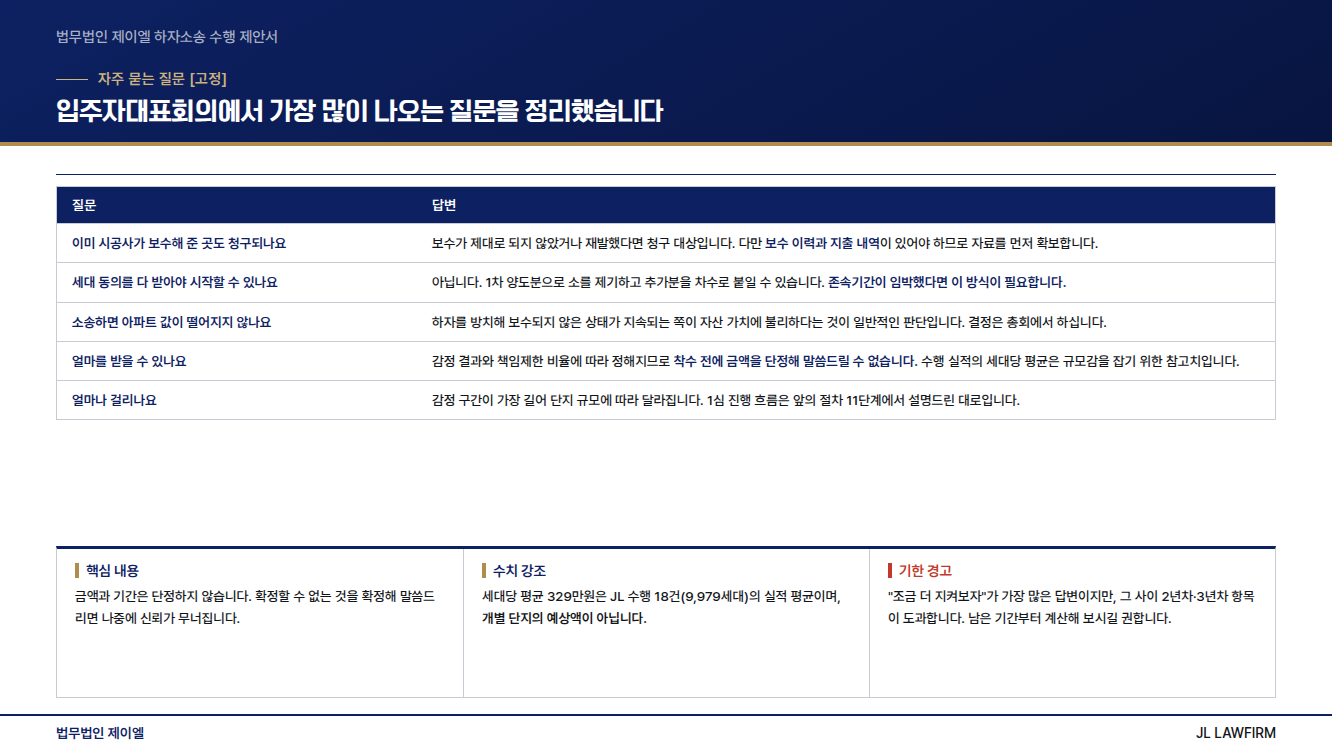
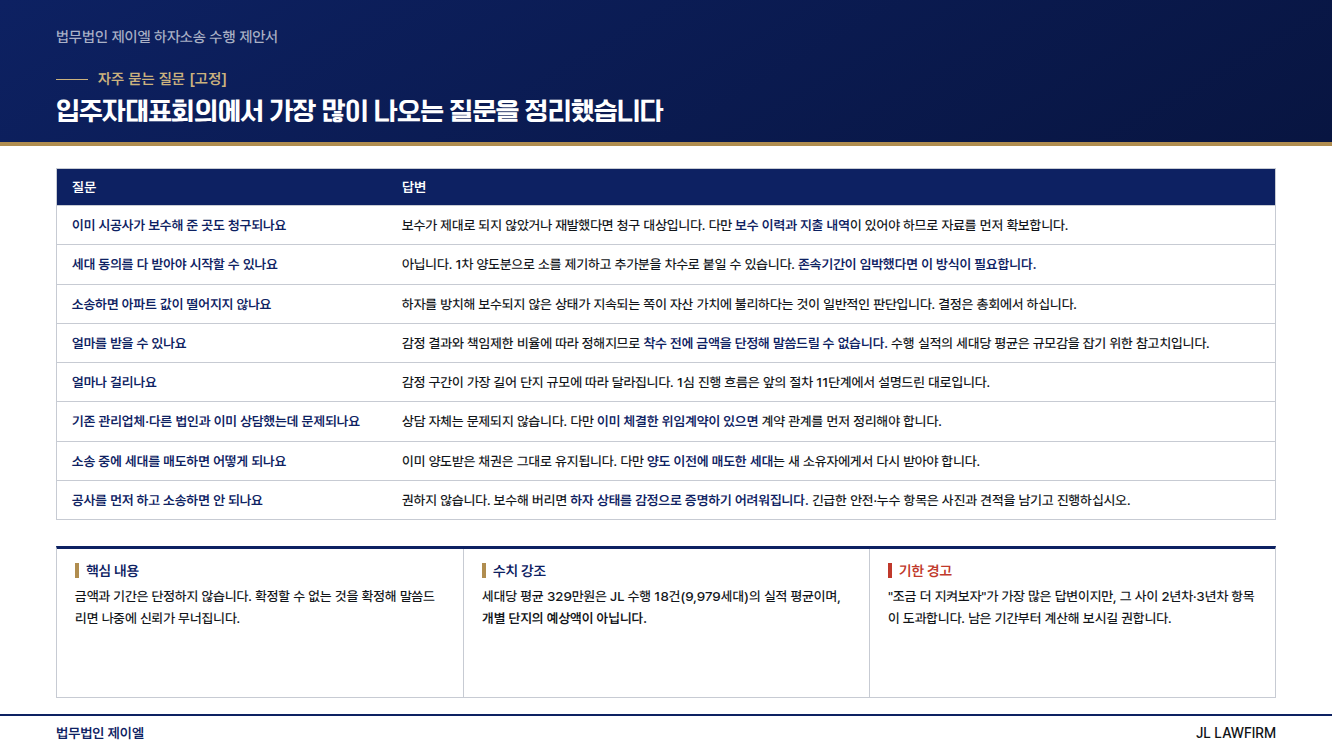
여백 정리 — 공백 120px 이상 0장 달성
- S21 연락 체계 도해(단지 <-> 담당 변호사 <-> 사무직원 <-> 협력 기술진)
- S20 감정보완신청 사유 4종(항목 누락·계측 방법·단가 적용·수량 산출)
- S06·S24·S26·S20 3단 밴드 추가
- S30b FAQ 5문항 -> 8문항
- S32 끝인사 조판 수정(제목 2행, 세 가지 축 에코 밴드)

Claude-Session: https://claude.ai/code/session_01McKVzc7RRv66NSkAtofwT1

Changed region(s): [[0.0308, 0.2147, 0.9542, 0.6747]]

diff --git a/template/design/S30b_FAQ2.dc.html b/template/design/S30b_FAQ2.dc.html
@@ -91,7 +91,7 @@
   <div class="runner"><span>법무법인 제이엘 하자소송 수행 제안서</span></div>
   <div class="eyebrow">자주 묻는 질문 [고정]</div>
   <div class="title">입주자대표회의에서 가장 많이 나오는 질문을 정리했습니다</div>
-  <div class="body"><div class="sec"></div><div class="tbl blk" style=""><div class="th"><div style="width:360px">질문</div><div style="flex:1">답변</div></div><div class="tr"><div style="width:360px"><b>이미 시공사가 보수해 준 곳도 청구되나요</b></div><div style="flex:1">보수가 제대로 되지 않았거나 재발했다면 청구 대상입니다. 다만 <b>보수 이력과 지출 내역</b>이 있어야 하므로 자료를 먼저 확보합니다.</div></div><div class="tr"><div style="width:360px"><b>세대 동의를 다 받아야 시작할 수 있나요</b></div><div style="flex:1">아닙니다. 1차 양도분으로 소를 제기하고 추가분을 차수로 붙일 수 있습니다. <b>존속기간이 임박했다면 이 방식이 필요합니다.</b></div></div><div class="tr"><div style="width:360px"><b>소송하면 아파트 값이 떨어지지 않나요</b></div><div style="flex:1">하자를 방치해 보수되지 않은 상태가 지속되는 쪽이 자산 가치에 불리하다는 것이 일반적인 판단입니다. 결정은 총회에서 하십니다.</div></div><div class="tr"><div style="width:360px"><b>얼마를 받을 수 있나요</b></div><div style="flex:1">감정 결과와 책임제한 비율에 따라 정해지므로 <b>착수 전에 금액을 단정해 말씀드릴 수 없습니다.</b> 수행 실적의 세대당 평균은 규모감을 잡기 위한 참고치입니다.</div></div><div class="tr"><div style="width:360px"><b>얼마나 걸리나요</b></div><div style="flex:1">감정 구간이 가장 길어 단지 규모에 따라 달라집니다. 1심 진행 흐름은 앞의 절차 11단계에서 설명드린 대로입니다.</div></div></div></div>
+  <div class="body"><div class="tbl blk" style=""><div class="th"><div style="width:330px">질문</div><div style="flex:1">답변</div></div><div class="tr"><div style="width:330px"><b>이미 시공사가 보수해 준 곳도 청구되나요</b></div><div style="flex:1">보수가 제대로 되지 않았거나 재발했다면 청구 대상입니다. 다만 <b>보수 이력과 지출 내역</b>이 있어야 하므로 자료를 먼저 확보합니다.</div></div><div class="tr"><div style="width:330px"><b>세대 동의를 다 받아야 시작할 수 있나요</b></div><div style="flex:1">아닙니다. 1차 양도분으로 소를 제기하고 추가분을 차수로 붙일 수 있습니다. <b>존속기간이 임박했다면 이 방식이 필요합니다.</b></div></div><div class="tr"><div style="width:330px"><b>소송하면 아파트 값이 떨어지지 않나요</b></div><div style="flex:1">하자를 방치해 보수되지 않은 상태가 지속되는 쪽이 자산 가치에 불리하다는 것이 일반적인 판단입니다. 결정은 총회에서 하십니다.</div></div><div class="tr"><div style="width:330px"><b>얼마를 받을 수 있나요</b></div><div style="flex:1">감정 결과와 책임제한 비율에 따라 정해지므로 <b>착수 전에 금액을 단정해 말씀드릴 수 없습니다.</b> 수행 실적의 세대당 평균은 규모감을 잡기 위한 참고치입니다.</div></div><div class="tr"><div style="width:330px"><b>얼마나 걸리나요</b></div><div style="flex:1">감정 구간이 가장 길어 단지 규모에 따라 달라집니다. 1심 진행 흐름은 앞의 절차 11단계에서 설명드린 대로입니다.</div></div><div class="tr"><div style="width:330px"><b>기존 관리업체·다른 법인과 이미 상담했는데 문제되나요</b></div><div style="flex:1">상담 자체는 문제되지 않습니다. 다만 <b>이미 체결한 위임계약이 있으면</b> 계약 관계를 먼저 정리해야 합니다.</div></div><div class="tr"><div style="width:330px"><b>소송 중에 세대를 매도하면 어떻게 되나요</b></div><div style="flex:1">이미 양도받은 채권은 그대로 유지됩니다. 다만 <b>양도 이전에 매도한 세대</b>는 새 소유자에게서 다시 받아야 합니다.</div></div><div class="tr"><div style="width:330px"><b>공사를 먼저 하고 소송하면 안 되나요</b></div><div style="flex:1">권하지 않습니다. 보수해 버리면 <b>하자 상태를 감정으로 증명하기 어려워집니다.</b> 긴급한 안전·누수 항목은 사진과 견적을 남기고 진행하십시오.</div></div></div></div>
   <div class="verify"><div><div class="vk">핵심 내용</div><div class="vv">금액과 기간은 단정하지 않습니다. 확정할 수 없는 것을 확정해 말씀드리면 나중에 신뢰가 무너집니다.</div></div><div><div class="vk">수치 강조</div><div class="vv">세대당 평균 329만원은 JL 수행 18건(9,979세대)의 실적 평균이며, <b>개별 단지의 예상액이 아닙니다.</b></div></div><div><div class="vk warnk">기한 경고</div><div class="vv">"조금 더 지켜보자"가 가장 많은 답변이지만, 그 사이 2년차·3년차 항목이 도과합니다. 남은 기간부터 계산해 보시길 권합니다.</div></div></div>
   <div class="footer"><span class="firm">법무법인 제이엘</span><span>JL LAWFIRM</span></div>
 </body>

diff --git a/template/design/S20_AppraisalResponse.dc.html b/template/design/S20_AppraisalResponse.dc.html
@@ -37,11 +37,11 @@
   .step .b{margin-top:6px;font-size:14px;color:var(--muted);line-height:1.6;}
   .step::after{content:"";position:absolute;top:13px;left:calc(100% - 4px);width:32px;height:1px;background:var(--line);}
   .step:last-child::after{display:none;}
-  .pending{position:absolute;left:56px;top:400px;right:56px;background:#FBF7EE;border:1px solid #E7D9BC;
+  .pending{position:absolute;left:56px;top:434px;right:56px;background:#FBF7EE;border:1px solid #E7D9BC;
     border-radius:0;padding:16px 22px;}
   .pending .k{font-size:15px;color:var(--gold-ink);font-weight:700;}
   .pending .v{margin-top:6px;font-size:15px;color:var(--muted);line-height:1.7;}
-  .why{position:absolute;left:56px;top:500px;right:56px;bottom:56px;}
+  .why{position:absolute;left:56px;top:486px;right:56px;bottom:224px;}
   .why .h{font-size:16px;font-weight:800;color:var(--navy);margin-bottom:10px;}
   .why p{font-size:15px;color:var(--muted);line-height:1.8;}
 
@@ -72,6 +72,29 @@
   .sum *,.panel *,.band *,.record *,.total *{background:transparent!important;}
 
   /* 한글 자간 */ .eyebrow{letter-spacing:.02em!important;}
+
+  /* ── 심층 검증 3단 밴드 ── */
+  .verify{position:absolute;left:56px;right:56px;bottom:52px;height:152px;
+    display:grid;grid-template-columns:1fr 1fr 1fr;
+    border:1.4px solid var(--line);border-top:3px solid var(--navy);background:#fff;}
+  .verify>div{padding:13px 18px 12px;border-left:1px solid var(--line);}
+  .verify>div:first-child{border-left:0;}
+  .verify .vk{font-size:14.5px;font-weight:800;color:var(--navy);margin-bottom:7px;
+    display:flex;align-items:center;gap:7px;letter-spacing:-.01em;}
+  .verify .vk::before{content:"";width:4px;height:15px;background:var(--gold);}
+  .verify .vv{font-size:13.5px;line-height:1.6;color:var(--ink);}
+  .verify .warnk{color:#C0392B;}
+  .verify .warnk::before{background:#C0392B!important;}
+  .verify *{background:transparent!important;}
+
+  /* ── 감정보완신청 사유 4종 (여백 채움) ── */
+  .rsn{position:absolute;left:56px;top:296px;right:56px;}
+  .rsn .h{font-size:13px;font-weight:800;color:var(--gold-ink);letter-spacing:.02em;
+    padding-bottom:6px;border-bottom:1.6px solid var(--navy);margin-bottom:11px;}
+  .rsn .g{display:grid;grid-template-columns:repeat(4,1fr);gap:14px;}
+  .rsn .i{border:1px solid var(--line);border-top:3px solid var(--navy);background:#fff;padding:12px 15px 13px;}
+  .rsn .i .k{font-size:14.5px;font-weight:800;color:var(--navy);letter-spacing:-.01em;}
+  .rsn .i .v{margin-top:6px;font-size:12.5px;line-height:1.55;color:var(--ink);}
 </style>
 </head>
 <body>
@@ -88,11 +111,21 @@
     <div class="step"><div class="num">4</div><div class="t">사후 이의</div>
       <div class="b">감정보완신청으로 오류·누락 대응</div></div>
   </div>
+  <div class="rsn">
+    <div class="h">감정서가 도착하면 이 네 가지를 먼저 봅니다 — 감정보완신청 사유</div>
+    <div class="g">
+      <div class="i"><div class="k">항목 누락</div><div class="v">신청한 하자 항목이 감정서에서 빠졌거나 판단이 없는 경우</div></div>
+      <div class="i"><div class="k">계측 방법 오류</div><div class="v">기준과 다른 방법으로 측정했거나 표본 수가 부족한 경우</div></div>
+      <div class="i"><div class="k">단가 적용 오류</div><div class="v">공법에 맞지 않는 단가나 시점이 다른 단가를 적용한 경우</div></div>
+      <div class="i"><div class="k">수량 산출 오류</div><div class="v">면적·연장·세대수 산출이 도면·명단과 맞지 않는 경우</div></div>
+    </div>
+  </div>
   <div class="pending"><div class="k">JL 자체 협력 진단업체</div>
     <div class="v">협력 진단업체 확인 후 업체명을 수록합니다 [확인 대기] · 확인 전까지는 협력 기술진 투입 체계로만 기술합니다.</div></div>
-  <div class="why">
-    <div class="h">왜 중요한가</div>
-    <p>건설소송은 감정 결과가 곧 청구액을 좌우합니다. 감정인 현장조사에 입회해 계측 기준 적용을 직접 확인하고, 오류나 누락이 있으면 감정보완신청으로 대응합니다.</p>
+  <div class="verify">
+    <div><div class="vk">핵심 내용</div><div class="vv">건설소송은 감정 결과가 곧 청구액입니다. 감정인 현장조사에 입회해 계측 기준 적용을 직접 확인하고, 협력 기술진이 같은 자리에서 검토합니다.</div></div>
+    <div><div class="vk">수치 강조</div><div class="vv">감정보완신청 사유는 위 네 가지가 대부분입니다. 어느 하나만 관철되어도 인정 금액이 달라집니다.</div></div>
+    <div><div class="vk warnk">기한 경고</div><div class="vv">감정서가 나온 뒤 보완신청 없이 변론이 종결되면 그대로 확정됩니다. 도착 즉시 검토해야 합니다.</div></div>
   </div>
   <div class="footer"><span class="firm">법무법인 제이엘</span><span>JL LAWFIRM</span></div>
 </body>

diff --git a/template/design/S06_DefectStats.dc.html b/template/design/S06_DefectStats.dc.html
@@ -27,7 +27,7 @@
     font-size:14px;color:var(--muted);}
   .footer .firm{color:var(--navy);font-weight:700;}
 
-  .cols{position:absolute;left:56px;top:180px;right:56px;bottom:110px;display:flex;gap:40px;}
+  .cols{position:absolute;left:56px;top:180px;right:56px;bottom:224px;display:flex;gap:40px;}
   .colL{flex:1.3;} .colR{flex:1;}
   .h{font-size:16px;font-weight:800;color:var(--navy);margin-bottom:14px;}
   .bar-row{margin-bottom:16px;}
@@ -38,7 +38,7 @@
   .heat{display:grid;grid-template-columns:repeat(5,1fr);gap:6px;}
   .hcell{aspect-ratio:1;border-radius:0;display:flex;align-items:center;justify-content:center;
     font-size:14px;color:#fff;font-weight:700;}
-  .foot-note{position:absolute;left:56px;bottom:56px;right:56px;}
+  .foot-note{position:absolute;left:56px;bottom:216px;right:56px;}
 
   /* ── 법무법인 제안서 헤더 밴드 ── */
   body::before{content:"";position:absolute;left:0;top:0;right:0;height:142px;
@@ -67,6 +67,20 @@
   .sum *,.panel *,.band *,.record *,.total *{background:transparent!important;}
 
   /* 한글 자간 */ .eyebrow{letter-spacing:.02em!important;}
+
+  /* ── 심층 검증 3단 밴드 ── */
+  .verify{position:absolute;left:56px;right:56px;bottom:52px;height:152px;
+    display:grid;grid-template-columns:1fr 1fr 1fr;
+    border:1.4px solid var(--line);border-top:3px solid var(--navy);background:#fff;}
+  .verify>div{padding:13px 18px 12px;border-left:1px solid var(--line);}
+  .verify>div:first-child{border-left:0;}
+  .verify .vk{font-size:14.5px;font-weight:800;color:var(--navy);margin-bottom:7px;
+    display:flex;align-items:center;gap:7px;letter-spacing:-.01em;}
+  .verify .vk::before{content:"";width:4px;height:15px;background:var(--gold);}
+  .verify .vv{font-size:13.5px;line-height:1.6;color:var(--ink);}
+  .verify .warnk{color:#C0392B;}
+  .verify .warnk::before{background:#C0392B!important;}
+  .verify *{background:transparent!important;}
 </style>
 </head>
 <body>
@@ -102,6 +116,11 @@
       </div></div>
   </div>
   <div class="foot-note"><div class="note">이 슬라이드는 관리사무소가 보유한 <b>세대 하자 접수대장</b>이 있을 때만 채워집니다. 위 막대 길이와 색상은 레이아웃 예시이며 실제 값이 아닙니다. 자료가 없으면 이 슬라이드는 삭제하고 진행합니다.</div></div>
+  <div class="verify">
+    <div><div class="vk">핵심 내용</div><div class="vv">접수 기록은 그 자체로 증거입니다. 같은 부위에 반복 접수된 이력은 일시적 현상이 아니라 시공에서 비롯된 하자라는 근거가 됩니다.</div></div>
+    <div><div class="vk">수치 강조</div><div class="vv">건수보다 <b>반복 접수와 최초 접수일</b>이 중요합니다. 최초 접수일이 사용검사 이후 발생 하자의 발생 시점을 특정합니다.</div></div>
+    <div><div class="vk warnk">기한 경고</div><div class="vv">관리사무소 자료는 보존 연한이 지나면 폐기됩니다. 오래된 접수대장과 공문부터 사본을 확보해야 합니다.</div></div>
+  </div>
   <div class="footer"><span class="firm">법무법인 제이엘</span><span>JL LAWFIRM</span></div>
 </body>
 </html>

diff --git a/template/design/S26_FirmOverview.dc.html b/template/design/S26_FirmOverview.dc.html
@@ -40,11 +40,11 @@
   .g .k{font-size:14px;color:var(--gold-ink);font-weight:700;}
   .g .v{margin-top:7px;font-size:16px;font-weight:800;color:var(--navy);}
   .g .d{margin-top:7px;font-size:14px;color:var(--muted);line-height:1.6;}
-  .why{position:absolute;left:56px;top:430px;right:56px;display:flex;gap:20px;}
+  .why{position:absolute;left:56px;top:424px;right:56px;display:flex;gap:20px;}
   .w{flex:1;border-left:3px solid var(--gold);padding-left:14px;}
   .w .t{font-size:15px;font-weight:800;color:var(--navy);}
   .w .d{margin-top:5px;font-size:14px;color:var(--muted);line-height:1.7;}
-  .addr{position:absolute;left:56px;bottom:50px;right:56px;background:#fff;flex-wrap:wrap;gap:6px 26px;
+  .addr{position:absolute;left:56px;bottom:216px;right:56px;background:#fff;flex-wrap:wrap;gap:6px 26px;
     border:1px solid var(--line);border-radius:0;padding:12px 20px;display:flex;
     justify-content:space-between;font-size:15px;color:var(--muted);}
   .addr b{color:var(--navy);}
@@ -76,6 +76,20 @@
   .sum *,.panel *,.band *,.record *,.total *{background:transparent!important;}
 
   /* 한글 자간 */ .eyebrow{letter-spacing:.02em!important;}
+
+  /* ── 심층 검증 3단 밴드 ── */
+  .verify{position:absolute;left:56px;right:56px;bottom:52px;height:152px;
+    display:grid;grid-template-columns:1fr 1fr 1fr;
+    border:1.4px solid var(--line);border-top:3px solid var(--navy);background:#fff;}
+  .verify>div{padding:13px 18px 12px;border-left:1px solid var(--line);}
+  .verify>div:first-child{border-left:0;}
+  .verify .vk{font-size:14.5px;font-weight:800;color:var(--navy);margin-bottom:7px;
+    display:flex;align-items:center;gap:7px;letter-spacing:-.01em;}
+  .verify .vk::before{content:"";width:4px;height:15px;background:var(--gold);}
+  .verify .vv{font-size:13.5px;line-height:1.6;color:var(--ink);}
+  .verify .warnk{color:#C0392B;}
+  .verify .warnk::before{background:#C0392B!important;}
+  .verify *{background:transparent!important;}
 </style>
 </head>
 <body>
@@ -117,6 +131,11 @@
     <span><b>주사무소(서초)</b> 서울 서초구 서초대로53길 15 정원빌딩 4층 · 02-537-0123</span>
     <span><b>분사무소(동탄)</b> 경기 화성시 동탄순환대로 127-5 우성센트럴타워 914호 · 1899-4252</span>
     <span>www.jllawfirm.co.kr</span></div>
+  <div class="verify">
+    <div><div class="vk">핵심 내용</div><div class="vv">하자소송은 서면만으로 되지 않습니다. 세대 단위 서류 처리량과 현장 대응이 결과를 좌우합니다.</div></div>
+    <div><div class="vk">수치 강조</div><div class="vv">변호사 7인 · 사무직원 36명 구성이며, 사무장은 <b>건축시공기술사</b>입니다. 도면을 읽는 인력이 법인 안에 있습니다.</div></div>
+    <div><div class="vk warnk">기한 경고</div><div class="vv">설명회·서류 징구는 단지 일정에 맞춰야 합니다. 총회 일정이 정해지면 미리 알려 주십시오.</div></div>
+  </div>
   <div class="footer"><span class="firm">법무법인 제이엘</span><span>JL LAWFIRM</span></div>
 </body>
 </html>

diff --git a/template/design/S21_ReportingSystem.dc.html b/template/design/S21_ReportingSystem.dc.html
@@ -74,6 +74,23 @@
   .sum *,.panel *,.band *,.record *,.total *{background:transparent!important;}
 
   /* 한글 자간 */ .eyebrow{letter-spacing:.02em!important;}
+
+  /* ── 연락 체계 도해 (하단 여백 채움) ── */
+  .chan{position:absolute;left:56px;right:56px;top:470px;height:158px;}
+  .chan .h{font-size:13px;font-weight:800;color:var(--gold-ink);letter-spacing:.02em;
+    padding-bottom:6px;border-bottom:1.6px solid var(--navy);margin-bottom:12px;}
+  .chan .row{display:flex;align-items:stretch;gap:0;}
+  .chan .n{flex:1;border:1px solid var(--line);background:#fff;padding:11px 15px 12px;}
+  .chan .n.hi{background:var(--navy);border-color:var(--navy);}
+  .chan .n .k{font-size:11.5px;font-weight:800;letter-spacing:.1em;color:var(--gold-ink);}
+  .chan .n.hi .k{color:#CBB27E;}
+  .chan .n .t{margin-top:6px;font-size:15px;font-weight:800;color:var(--ink);letter-spacing:-.01em;}
+  .chan .n.hi .t{color:#fff;}
+  .chan .n .d{margin-top:5px;font-size:12px;line-height:1.5;color:var(--ink);}
+  .chan .n.hi .d{color:rgba(255,255,255,.80);}
+  .chan .ar{flex:0 0 44px;display:flex;align-items:center;justify-content:center;
+    font-size:15px;color:var(--navy);font-weight:700;}
+  .chan .n.hi *{background:transparent;}
 </style>
 </head>
 <body>
@@ -101,6 +118,22 @@
     </div>
   </div>
 
+  <div class="chan">
+    <div class="h">연락은 이 경로로 오갑니다 — 여러 사람에게 나뉘어 물어보지 않으셔도 됩니다</div>
+    <div class="row">
+      <div class="n"><div class="k">단지</div><div class="t">입주자대표회의 · 관리사무소</div>
+        <div class="d">질의·자료 제출·의결 결과 전달</div></div>
+      <div class="ar">&#8644;</div>
+      <div class="n hi"><div class="k">단일 창구</div><div class="t">담당 변호사</div>
+        <div class="d">모든 질의가 여기로 모이고, 여기서 답이 나갑니다</div></div>
+      <div class="ar">&#8594;</div>
+      <div class="n"><div class="k">법인 내부</div><div class="t">담당 사무직원</div>
+        <div class="d">채권양도 서류 징구·검수, 세대 명단 관리</div></div>
+      <div class="ar">&#8594;</div>
+      <div class="n"><div class="k">협력</div><div class="t">협력 기술진</div>
+        <div class="d">현장조사 입회, 도면 대조, 감정 항목 검토</div></div>
+    </div>
+  </div>
   <div class="foot-note"><div class="note">감정 절차는 진행이 길어 입주자대표회의가 가장 답답해하는 구간입니다. 움직임이 없는 달에도 <b>현재 어느 단계이고 다음이 언제인지</b>를 보고합니다.</div></div>
   <div class="footer"><span class="firm">법무법인 제이엘</span><span>JL LAWFIRM</span></div>
 </body>

diff --git a/template/design/S24_CostStructure.dc.html b/template/design/S24_CostStructure.dc.html
@@ -28,7 +28,7 @@
   .footer .firm{color:var(--navy);font-weight:700;}
 
   .title{font-size:24px;}
-  .cols{position:absolute;left:56px;top:168px;right:56px;display:block;}
+  .cols{position:absolute;left:56px;top:168px;right:56px;bottom:224px;display:block;overflow:hidden;}
   .colL{width:1220px;height:610px;display:none;}
   .chartbox{width:760px;height:380px;border:1px solid var(--line);overflow:hidden;
     background:#fff;float:left;}
@@ -68,6 +68,20 @@
   .sum *,.panel *,.band *,.record *,.total *{background:transparent!important;}
 
   /* 한글 자간 */ .eyebrow{letter-spacing:.02em!important;}
+
+  /* ── 심층 검증 3단 밴드 ── */
+  .verify{position:absolute;left:56px;right:56px;bottom:52px;height:152px;
+    display:grid;grid-template-columns:1fr 1fr 1fr;
+    border:1.4px solid var(--line);border-top:3px solid var(--navy);background:#fff;}
+  .verify>div{padding:13px 18px 12px;border-left:1px solid var(--line);}
+  .verify>div:first-child{border-left:0;}
+  .verify .vk{font-size:14.5px;font-weight:800;color:var(--navy);margin-bottom:7px;
+    display:flex;align-items:center;gap:7px;letter-spacing:-.01em;}
+  .verify .vk::before{content:"";width:4px;height:15px;background:var(--gold);}
+  .verify .vv{font-size:13.5px;line-height:1.6;color:var(--ink);}
+  .verify .warnk{color:#C0392B;}
+  .verify .warnk::before{background:#C0392B!important;}
+  .verify *{background:transparent!important;}
 </style>
 </head>
 <body>
@@ -82,6 +96,11 @@
         <div class="l">개별 단지의 실제 감정료는 감정 항목·규모에 따라 달라집니다.</div></div>
       <div class="recover" style="flex:1">판결 확정 시 소송비용 중 일부는 패소자(시공사 등)로부터 회수될 수 있습니다. 다만 회수 여부와 범위는 법원 판단에 따라 달라지며, 이를 단정적으로 예측하지 않습니다.</div>
     </div>
+  </div>
+  <div class="verify">
+    <div><div class="vk">핵심 내용</div><div class="vv">비용 구조를 먼저 밝히는 이유는, 진행 중에 예상하지 못한 지출이 생기면 그때부터 신뢰가 무너지기 때문입니다.</div></div>
+    <div><div class="vk">수치 강조</div><div class="vv">금액이 가장 큰 항목은 <b>감정료</b>이며, 단지 세대수와 조사 항목 수에 따라 법원이 정합니다.</div></div>
+    <div><div class="vk warnk">기한 경고</div><div class="vv">감정료를 기한 내 납부하지 않으면 감정 신청이 각하될 수 있습니다. 납부 시점을 미리 안내드립니다.</div></div>
   </div>
   <div class="footer"><span class="firm">법무법인 제이엘</span><span>JL LAWFIRM</span></div>
 </body>
